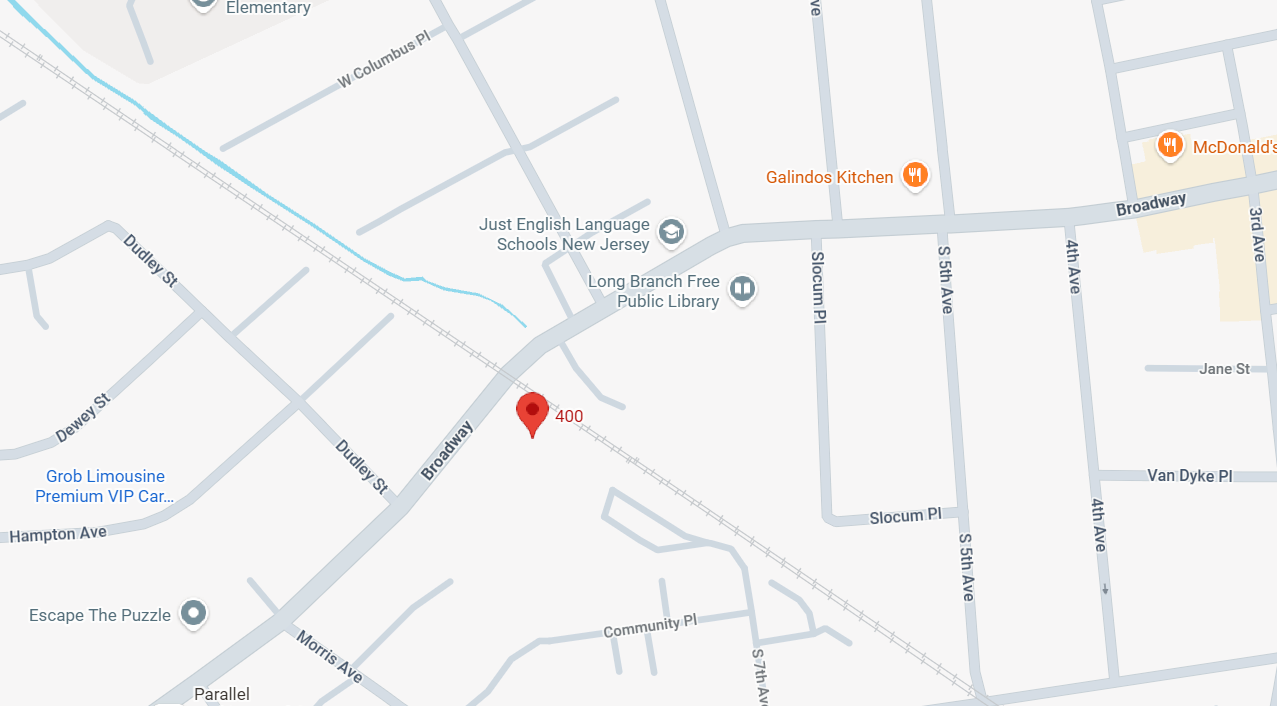
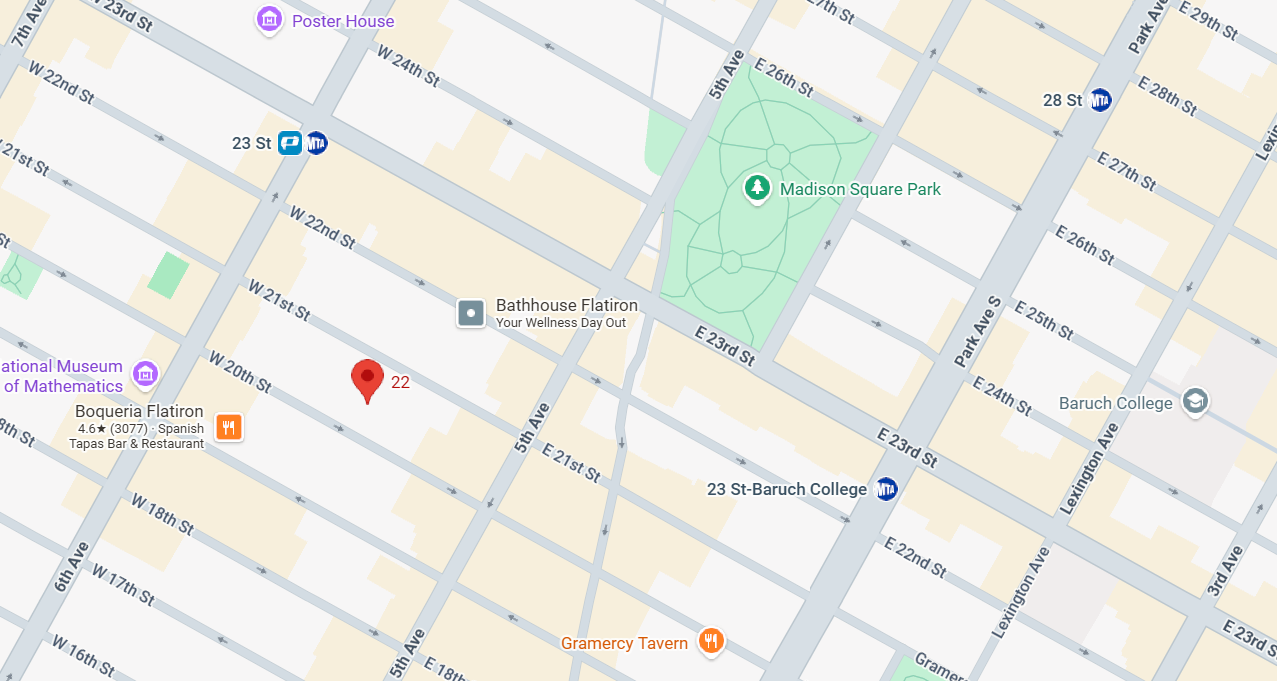
Rename Process to How It Works, remove brand tile grayscale hover, update contact info to NYC showroom

diff --git a/contact.html b/contact.html
@@ -4,7 +4,7 @@
 <meta charset="UTF-8">
 <meta name="viewport" content="width=device-width, initial-scale=1.0">
 <title>Contact — Amalfi Hardware</title>
-<meta name="description" content="Schedule a showroom appointment with Amalfi Hardware. Visit us in Long Branch, NJ, by appointment only.">
+<meta name="description" content="Schedule a showroom appointment with Amalfi Hardware. Visit us in New York, NY, by appointment only.">
 <link rel="preconnect" href="https://fonts.googleapis.com">
 <link rel="preconnect" href="https://fonts.gstatic.com" crossorigin>
 <link href="https://fonts.googleapis.com/css2?family=Spectral:ital,wght@0,300;0,400;0,500;1,300;1,400&family=Work+Sans:wght@300;400;500;600&display=swap" rel="stylesheet">
@@ -18,7 +18,7 @@
     <nav class="site-nav" id="site-nav">
       <a href="index.html">Home</a>
       <a href="brands.html">Brands</a>
-      <a href="design.html">Process</a>
+      <a href="design.html">How It Works</a>
       <a href="about.html">About</a>
       <a href="contact.html" aria-current="page">Contact</a>
       <a href="contact.html" class="nav-cta">Schedule a call +</a>
@@ -45,14 +45,14 @@
       <div>
         <div class="section-header" style="margin-bottom: var(--space-8);">
           <span class="eyebrow">Showroom</span>
-          <h2 class="display-md">400 Broadway.</h2>
+          <h2 class="display-md">22 W 21st.</h2>
         </div>
         <div class="info-list">
           <div class="info-item">
             <div class="icon-wrap"><i data-lucide="map-pin" style="width:18px;height:18px;"></i></div>
             <div>
               <h4>Address</h4>
-              <p>400 Broadway #105, Long Branch, NJ 07740</p>
+              <p>22 W 21st, Floors 5 &amp; 6, New York, NY 10010</p>
             </div>
           </div>
           <div class="info-item">
@@ -66,20 +66,20 @@
             <div class="icon-wrap"><i data-lucide="phone" style="width:18px;height:18px;"></i></div>
             <div>
               <h4>Phone</h4>
-              <p><a href="tel:+13475782410">(347) 578-2410</a></p>
+              <p><a href="tel:+19174452122">(917) 445-2122</a></p>
             </div>
           </div>
           <div class="info-item">
             <div class="icon-wrap"><i data-lucide="mail" style="width:18px;height:18px;"></i></div>
             <div>
               <h4>Email</h4>
-              <p><a href="mailto:elliot@amalfihardware.com">elliot@amalfihardware.com</a></p>
+              <p><a href="mailto:Evelyn@amalfihardware.com">Evelyn@amalfihardware.com</a></p>
             </div>
           </div>
         </div>
 
-        <a href="https://www.google.com/maps/search/?api=1&query=400+Broadway%2C+Long+Branch%2C+NJ+07740" target="_blank" rel="noopener noreferrer" style="display: block; margin-top: var(--space-10);">
-          <img src="images/contact-map.png" alt="Map showing Amalfi Hardware's showroom location at 400 Broadway, Long Branch, NJ 07740 — click to open in Google Maps" class="contact-map-img">
+        <a href="https://www.google.com/maps/search/?api=1&query=22+W+21st%2C+New+York%2C+NY+10010" target="_blank" rel="noopener noreferrer" style="display: block; margin-top: var(--space-10);">
+          <img src="images/contact-map.png" alt="Map showing Amalfi Hardware's showroom location at 22 W 21st, Floors 5 &amp; 6, New York, NY 10010 — click to open in Google Maps" class="contact-map-img">
         </a>
       </div>
 
@@ -141,7 +141,7 @@
       <ul>
         <li><a href="index.html">Home</a></li>
         <li><a href="brands.html">Brands</a></li>
-        <li><a href="design.html">Process</a></li>
+        <li><a href="design.html">How It Works</a></li>
         <li><a href="about.html">About</a></li>
         <li><a href="contact.html">Contact</a></li>
       </ul>
@@ -149,16 +149,16 @@
     <div class="footer-col">
       <h4>Showroom</h4>
       <ul>
-        <li><p>400 Broadway #105</p></li>
-        <li><p>Long Branch, NJ 07740</p></li>
+        <li><p>22 W 21st, Floors 5 &amp; 6</p></li>
+        <li><p>New York, NY 10010</p></li>
         <li><p>By appointment</p></li>
       </ul>
     </div>
     <div class="footer-col">
       <h4>Contact</h4>
       <ul>
-        <li><a href="tel:+13475782410">(347) 578-2410</a></li>
-        <li><a href="mailto:elliot@amalfihardware.com">elliot@amalfihardware.com</a></li>
+        <li><a href="tel:+19174452122">(917) 445-2122</a></li>
+        <li><a href="mailto:Evelyn@amalfihardware.com">Evelyn@amalfihardware.com</a></li>
       </ul>
     </div>
   </div>

diff --git a/design.html b/design.html
@@ -18,7 +18,7 @@
     <nav class="site-nav" id="site-nav">
       <a href="index.html">Home</a>
       <a href="brands.html">Brands</a>
-      <a href="design.html" aria-current="page">Process</a>
+      <a href="design.html" aria-current="page">How It Works</a>
       <a href="about.html">About</a>
       <a href="contact.html">Contact</a>
       <a href="contact.html" class="nav-cta">Schedule a call +</a>
@@ -138,7 +138,7 @@
       <ul>
         <li><a href="index.html">Home</a></li>
         <li><a href="brands.html">Brands</a></li>
-        <li><a href="design.html">Process</a></li>
+        <li><a href="design.html">How It Works</a></li>
         <li><a href="about.html">About</a></li>
         <li><a href="contact.html">Contact</a></li>
       </ul>
@@ -146,16 +146,16 @@
     <div class="footer-col">
       <h4>Showroom</h4>
       <ul>
-        <li><p>400 Broadway #105</p></li>
-        <li><p>Long Branch, NJ 07740</p></li>
+        <li><p>22 W 21st, Floors 5 &amp; 6</p></li>
+        <li><p>New York, NY 10010</p></li>
         <li><p>By appointment</p></li>
       </ul>
     </div>
     <div class="footer-col">
       <h4>Contact</h4>
       <ul>
-        <li><a href="tel:+13475782410">(347) 578-2410</a></li>
-        <li><a href="mailto:elliot@amalfihardware.com">elliot@amalfihardware.com</a></li>
+        <li><a href="tel:+19174452122">(917) 445-2122</a></li>
+        <li><a href="mailto:Evelyn@amalfihardware.com">Evelyn@amalfihardware.com</a></li>
       </ul>
     </div>
   </div>

diff --git a/about.html b/about.html
@@ -18,7 +18,7 @@
     <nav class="site-nav" id="site-nav">
       <a href="index.html">Home</a>
       <a href="brands.html">Brands</a>
-      <a href="design.html">Process</a>
+      <a href="design.html">How It Works</a>
       <a href="about.html" aria-current="page">About</a>
       <a href="contact.html">Contact</a>
       <a href="contact.html" class="nav-cta">Schedule a call +</a>
@@ -132,7 +132,7 @@
       <ul>
         <li><a href="index.html">Home</a></li>
         <li><a href="brands.html">Brands</a></li>
-        <li><a href="design.html">Process</a></li>
+        <li><a href="design.html">How It Works</a></li>
         <li><a href="about.html">About</a></li>
         <li><a href="contact.html">Contact</a></li>
       </ul>
@@ -140,16 +140,16 @@
     <div class="footer-col">
       <h4>Showroom</h4>
       <ul>
-        <li><p>400 Broadway #105</p></li>
-        <li><p>Long Branch, NJ 07740</p></li>
+        <li><p>22 W 21st, Floors 5 &amp; 6</p></li>
+        <li><p>New York, NY 10010</p></li>
         <li><p>By appointment</p></li>
       </ul>
     </div>
     <div class="footer-col">
       <h4>Contact</h4>
       <ul>
-        <li><a href="tel:+13475782410">(347) 578-2410</a></li>
-        <li><a href="mailto:elliot@amalfihardware.com">elliot@amalfihardware.com</a></li>
+        <li><a href="tel:+19174452122">(917) 445-2122</a></li>
+        <li><a href="mailto:Evelyn@amalfihardware.com">Evelyn@amalfihardware.com</a></li>
       </ul>
     </div>
   </div>

diff --git a/brands.html b/brands.html
@@ -18,7 +18,7 @@
     <nav class="site-nav" id="site-nav">
       <a href="index.html">Home</a>
       <a href="brands.html" aria-current="page">Brands</a>
-      <a href="design.html">Process</a>
+      <a href="design.html">How It Works</a>
       <a href="about.html">About</a>
       <a href="contact.html">Contact</a>
       <a href="contact.html" class="nav-cta">Schedule a call +</a>
@@ -253,7 +253,7 @@
       <ul>
         <li><a href="index.html">Home</a></li>
         <li><a href="brands.html">Brands</a></li>
-        <li><a href="design.html">Process</a></li>
+        <li><a href="design.html">How It Works</a></li>
         <li><a href="about.html">About</a></li>
         <li><a href="contact.html">Contact</a></li>
       </ul>
@@ -261,16 +261,16 @@
     <div class="footer-col">
       <h4>Showroom</h4>
       <ul>
-        <li><p>400 Broadway #105</p></li>
-        <li><p>Long Branch, NJ 07740</p></li>
+        <li><p>22 W 21st, Floors 5 &amp; 6</p></li>
+        <li><p>New York, NY 10010</p></li>
         <li><p>By appointment</p></li>
       </ul>
     </div>
     <div class="footer-col">
       <h4>Contact</h4>
       <ul>
-        <li><a href="tel:+13475782410">(347) 578-2410</a></li>
-        <li><a href="mailto:elliot@amalfihardware.com">elliot@amalfihardware.com</a></li>
+        <li><a href="tel:+19174452122">(917) 445-2122</a></li>
+        <li><a href="mailto:Evelyn@amalfihardware.com">Evelyn@amalfihardware.com</a></li>
       </ul>
     </div>
   </div>

diff --git a/index.html b/index.html
@@ -18,7 +18,7 @@
     <nav class="site-nav" id="site-nav">
       <a href="index.html" aria-current="page">Home</a>
       <a href="brands.html">Brands</a>
-      <a href="design.html">Process</a>
+      <a href="design.html">How It Works</a>
       <a href="about.html">About</a>
       <a href="contact.html">Contact</a>
       <a href="contact.html" class="nav-cta">Schedule a call +</a>
@@ -130,7 +130,7 @@
       <ul>
         <li><a href="index.html">Home</a></li>
         <li><a href="brands.html">Brands</a></li>
-        <li><a href="design.html">Process</a></li>
+        <li><a href="design.html">How It Works</a></li>
         <li><a href="about.html">About</a></li>
         <li><a href="contact.html">Contact</a></li>
       </ul>
@@ -138,16 +138,16 @@
     <div class="footer-col">
       <h4>Showroom</h4>
       <ul>
-        <li><p>400 Broadway #105</p></li>
-        <li><p>Long Branch, NJ 07740</p></li>
+        <li><p>22 W 21st, Floors 5 &amp; 6</p></li>
+        <li><p>New York, NY 10010</p></li>
         <li><p>By appointment</p></li>
       </ul>
     </div>
     <div class="footer-col">
       <h4>Contact</h4>
       <ul>
-        <li><a href="tel:+13475782410">(347) 578-2410</a></li>
-        <li><a href="mailto:elliot@amalfihardware.com">elliot@amalfihardware.com</a></li>
+        <li><a href="tel:+19174452122">(917) 445-2122</a></li>
+        <li><a href="mailto:Evelyn@amalfihardware.com">Evelyn@amalfihardware.com</a></li>
       </ul>
     </div>
   </div>

diff --git a/styles.css b/styles.css
@@ -519,12 +519,6 @@ a:hover > .contact-map-img {
   width: 100%;
   height: 100%;
   object-fit: cover;
-  filter: grayscale(1) opacity(0.88);
-  transition: filter var(--duration-base) var(--ease-out);
-}
-
-.brand-tile:hover img {
-  filter: grayscale(0) opacity(1);
 }
 
 .brand-tile::after {
